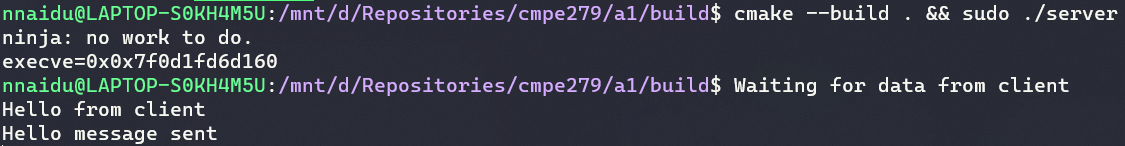
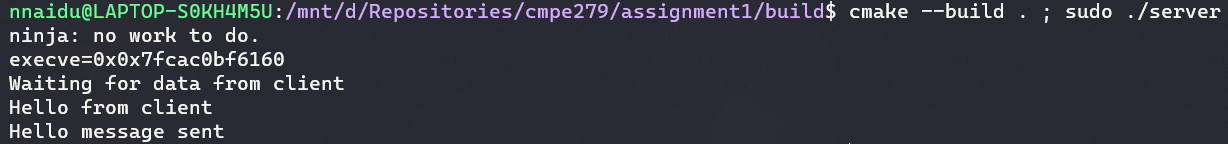
Updated server.c with getpwnam and wait for child to terminate

diff --git a/assignment1/server.c b/assignment1/server.c
@@ -7,6 +7,9 @@
 #include <sys/socket.h>
 #include <unistd.h>
 
+#include <pwd.h>
+#include <sys/wait.h>
+
 // Constants
 #define PORT 80
 
@@ -73,6 +76,8 @@ static void invoke_child(void) {
 
     if (id > 0) {
         // Safely exit the parent
+        while (wait(NULL) > 0) {
+        }
         exit(0);
     } else if (id < 0) {
         // Error
@@ -87,9 +92,10 @@ static void invoke_child(void) {
     // printf("Before: %d\r\n", uid);
 
     // Tested with both users (`nnaidu` and `nobody`)
-    const uid_t USER = 1000;
+    struct passwd *nobody_passwd = getpwnam("nobody");
+    // const uid_t USER = 1000;
     // const uid_t USER = 65534;
-    if (0 != setuid(USER)) {
+    if (0 != setuid(nobody_passwd->pw_uid)) {
         perror("Invalid user id");
         exit(EXIT_FAILURE);
     }
